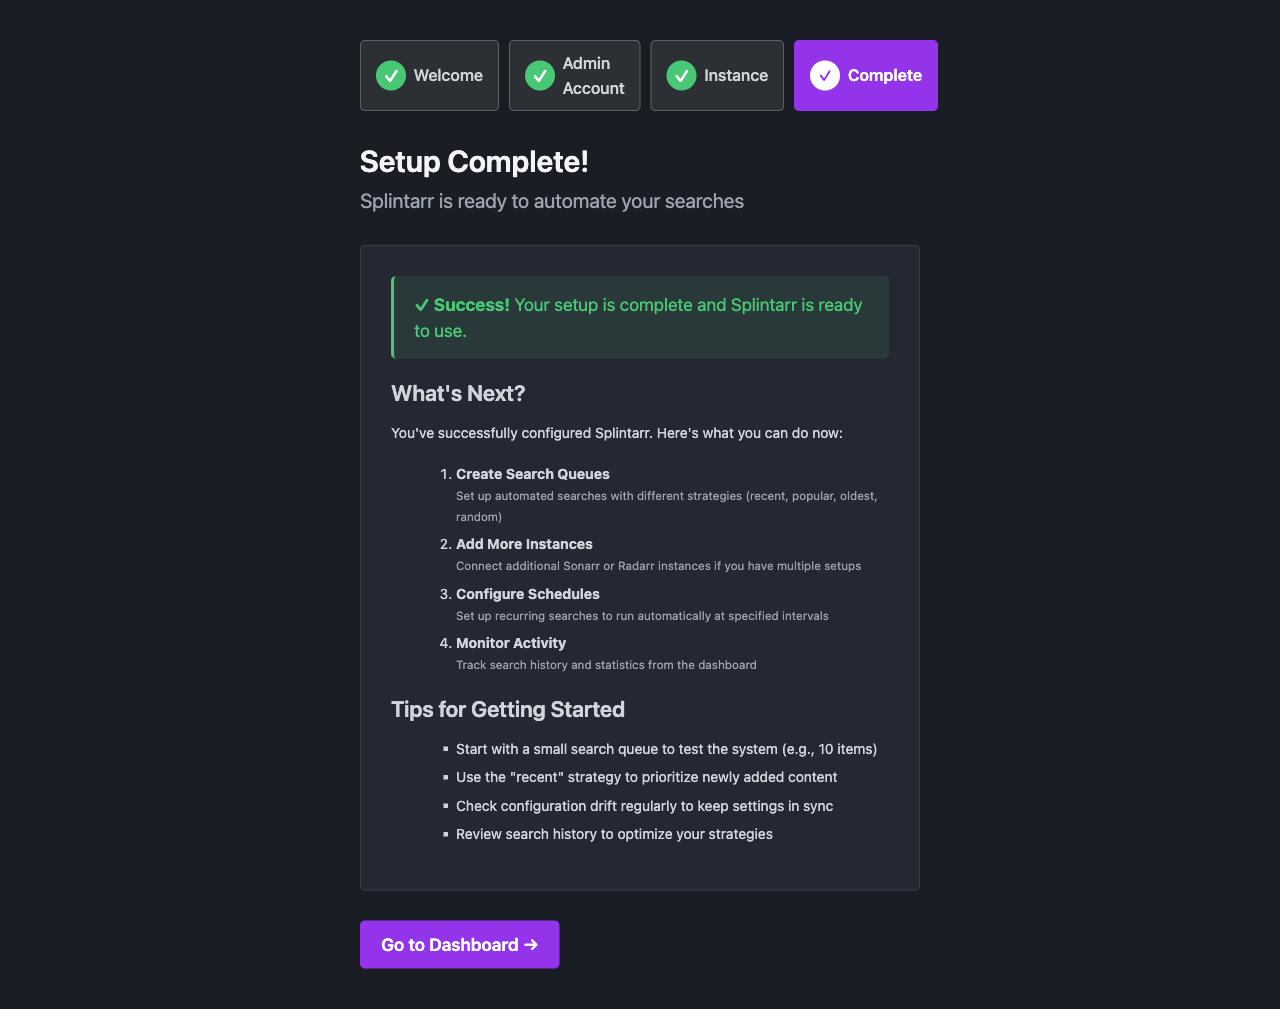
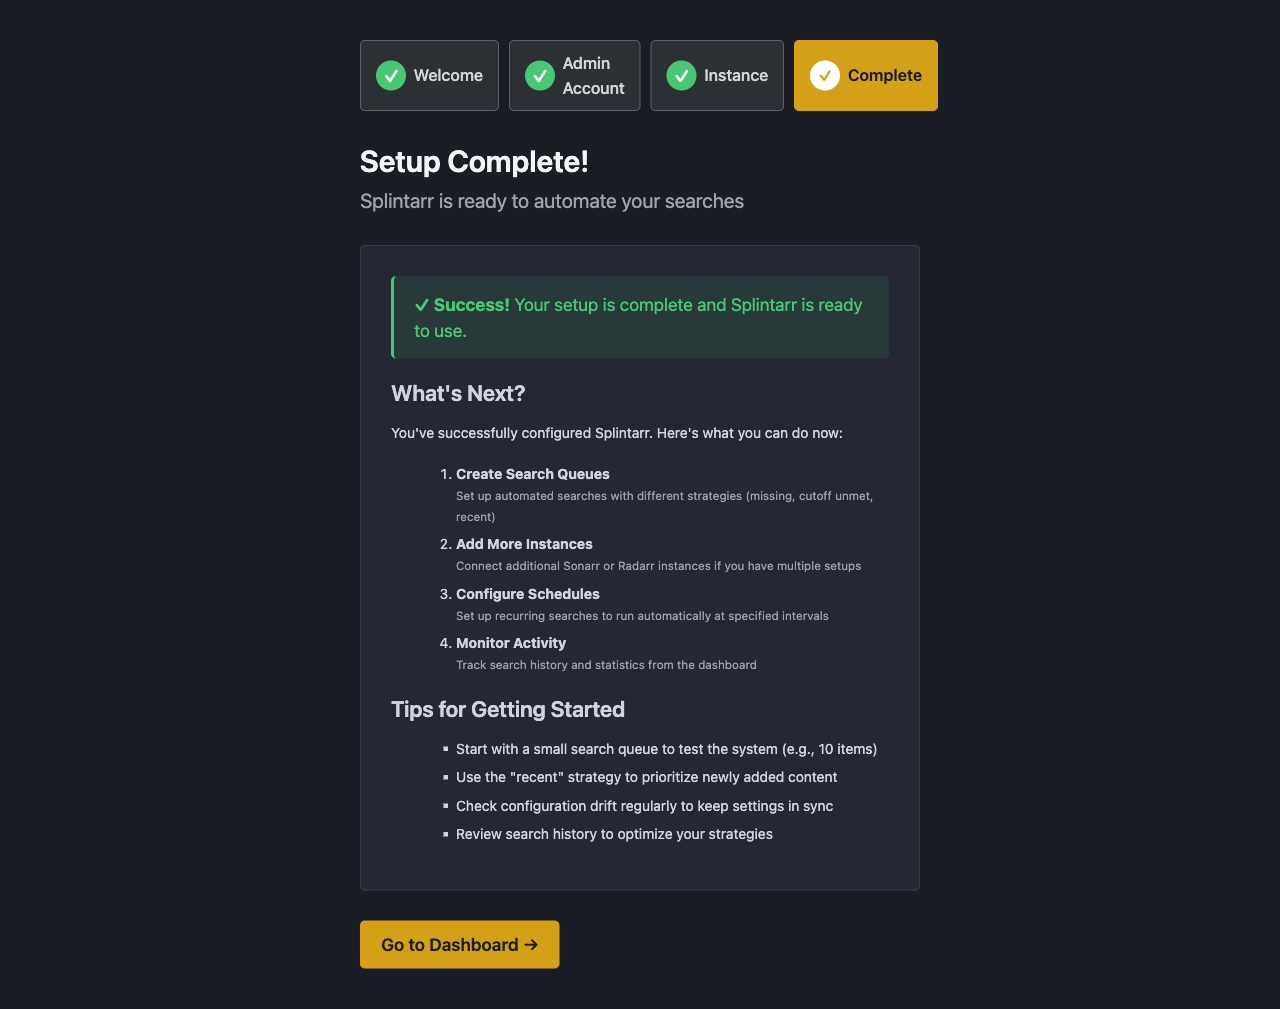
docs: update all screenshots for v0.2.0 gold/maroon rebrand
Regenerate all 11 screenshots with the new gold/maroon color scheme
and triple-ring logo. Add 2 new screenshots for v0.2.0 features.

Updated screenshots (9):
- setup-welcome, setup-admin, setup-instance, setup-complete
- dashboard, instances (modal), search-queues (modal)
- settings (now includes Notifications section)
- login (with new triple-ring logo)

New screenshots (2):
- library.png — Library overview page
- exclusions.png — Content Exclusions page

Also update README screenshot grid (2x2 → 3x2) and CLAUDE.md
screenshot inventory to include new pages.

Changed region(s): [[0.2812, 0.891, 0.4375, 0.9832], [0.5938, 0.0307, 0.75, 0.1229]]

diff --git a/CLAUDE.md b/CLAUDE.md
@@ -163,6 +163,8 @@ Screenshots live in `docs/images/` and are referenced from `README.md` and `docs
    - Open Add Instance modal on Instances page, capture `docs/images/instances.png`
    - Open Create Queue modal on Search Queues page, capture `docs/images/search-queues.png`
    - Capture Settings page (full page), `docs/images/settings.png`
+   - Capture Library page, `docs/images/library.png`
+   - Capture Exclusions page, `docs/images/exclusions.png`
    - Clear cookies, capture Login page, `docs/images/login.png`
 5. Tear down: `docker-compose down`
 
@@ -176,5 +178,7 @@ Screenshots live in `docs/images/` and are referenced from `README.md` and `docs
 | `dashboard.png` | README.md, getting-started.md | Main dashboard |
 | `instances.png` | README.md | Add Instance modal |
 | `search-queues.png` | README.md, getting-started.md | Create Queue modal |
-| `settings.png` | README.md | Settings page |
+| `settings.png` | README.md | Settings with notifications |
+| `library.png` | README.md | Library overview |
+| `exclusions.png` | README.md | Content exclusions |
 | `login.png` | README.md | Login form |

diff --git a/README.md b/README.md
@@ -121,8 +121,10 @@ Documentation is organized following the [Diataxis](https://diataxis.fr/) framew
 | Dashboard | Instance Management |
 |:-:|:-:|
 | ![Dashboard](docs/images/dashboard.png) | ![Instances](docs/images/instances.png) |
-| **Search Queues** | **Settings** |
+| **Search Queues** | **Settings & Notifications** |
 | ![Search Queues](docs/images/search-queues.png) | ![Settings](docs/images/settings.png) |
+| **Library** | **Exclusions** |
+| ![Library](docs/images/library.png) | ![Exclusions](docs/images/exclusions.png) |
 
 ---
 
